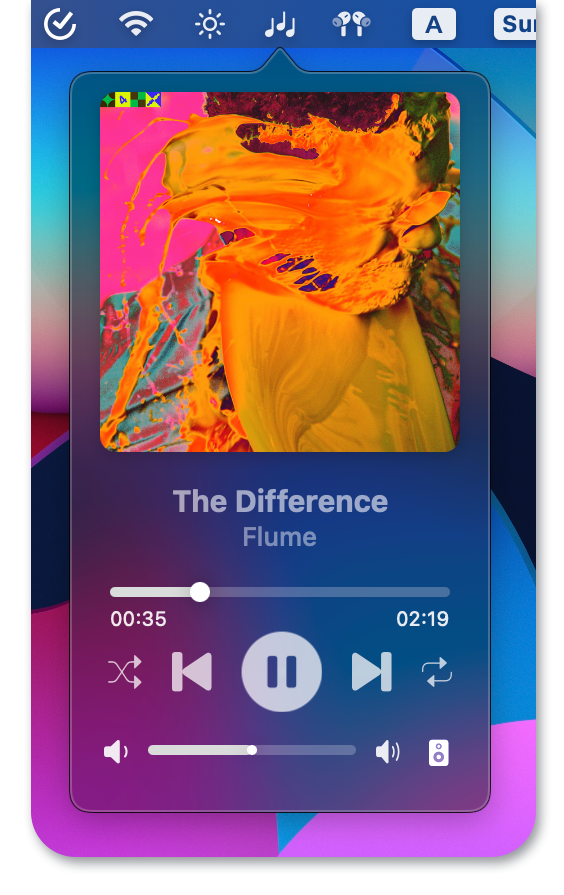
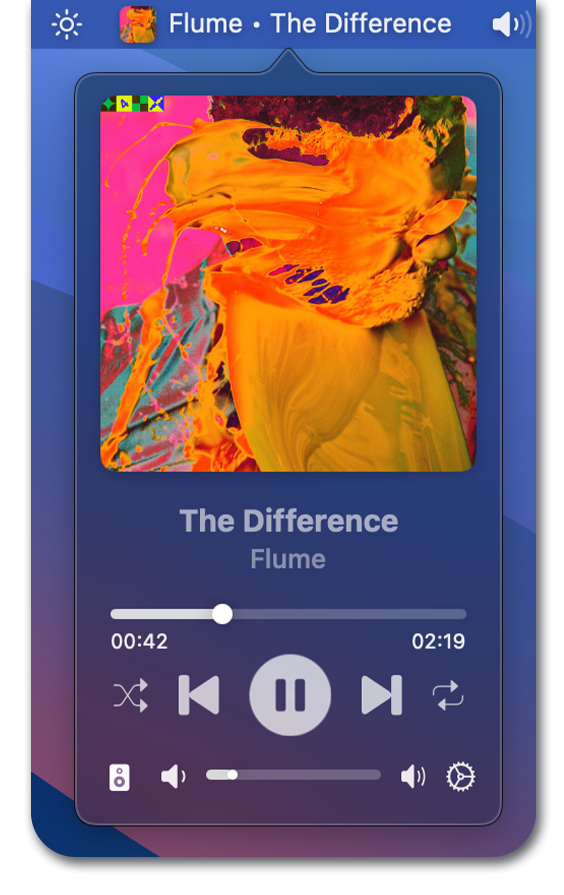
Updated readme and release notes

diff --git a/README.md b/README.md
@@ -16,16 +16,20 @@
 
 # About
 
-Tuneful provides a convenient way to control playback for both Spotify and Apple Music right from your menu bar. Enjoy seamless control over your music, including playback, shuffle, and repeat options. Additionally, the app allows you to manage system volume, set the audio output device, and features a mini player window.
+Tuneful provides a convenient way to control music playback for both Spotify and Apple Music, and see the currently playing song directly in the menu bar. Enjoy seamless control over your music, including playback, shuffle, and repeat options. Additionally, the app allows you to manage system volume, set the audio output device, and features a mini player window.
 
 **Tuneful requires macOS 12 Monterey or greater.**
 
 <p align="center">
-  <img width="400" src="docs/images/playback.png">
+  <img width="420" src="docs/images/playback.png">
 </p>
 
 <p align="center">
-  <img width="370" src="docs/images/mini-player.png">
+  <img width="390" src="docs/images/mini-player.png">
+</p>
+
+<p align="center">
+  <img width="410" src="docs/images/settings.png">
 </p>
 
 ## Features
@@ -33,13 +37,16 @@ Tuneful provides a convenient way to control playback for both Spotify and Apple
 ### 1. Playback Control
 Easily play, pause, skip, and go back to previous tracks without switching between applications. Tuneful seamlessly integrates with both Spotify and Apple Music.
 
-### 2. System Volume Control
+### 2. Menu bar information
+See currently playing song and/or artist directly in menu bar. You can customise the information displayed in the menu bar in the settings.
+
+### 3. System Volume Control
 Adjust the system volume directly from the menu bar. No need to open additional settings or apps to modify your sound preferences.
 
-### 3. Audio Output Device
+### 4. Audio Output Device
 Choose your preferred audio output device with a single click. Switch between headphones, speakers, and other connected devices effortlessly.
 
-### 4 . Mini Player Window
+### 5. Mini Player Window
 Mini player window provides a compact view of the current track information and playback controls. Keep an eye on your music without disrupting your workflow.
 
 ## Installation
@@ -62,6 +69,7 @@ If you find this app useful, consider supporting its development by [donating](h
 - This project uses [Sparkle](https://sparkle-project.org) for update delivery
 - This project makes use of [LaunchAtLogin](https://github.com/sindresorhus/LaunchAtLogin)
 - GitHub Actions are based on repo from [Alex Perathoner](https://github.com/AlexPerathoner/SparkleReleaseTest)
+- Settings window is using [Settings](https://github.com/sindresorhus/Settings) Swift package
 
 ---
 

diff --git a/release_notes.md b/release_notes.md
@@ -1,3 +1,10 @@
+# 1.0.0 - Song information in menu bar
+* New feature to display song information directly in menu bar
+* New settings window with ability to customise information displayed in menu bar
+* Fixed a bug where progress bar and play time were not sometimes updated
+* Popover UI tweaks
+* Other minor bug fixes and improvements
+
 # 0.9.6 - Minor fixes
 * Fixed "About..." menu item behaviour
 
